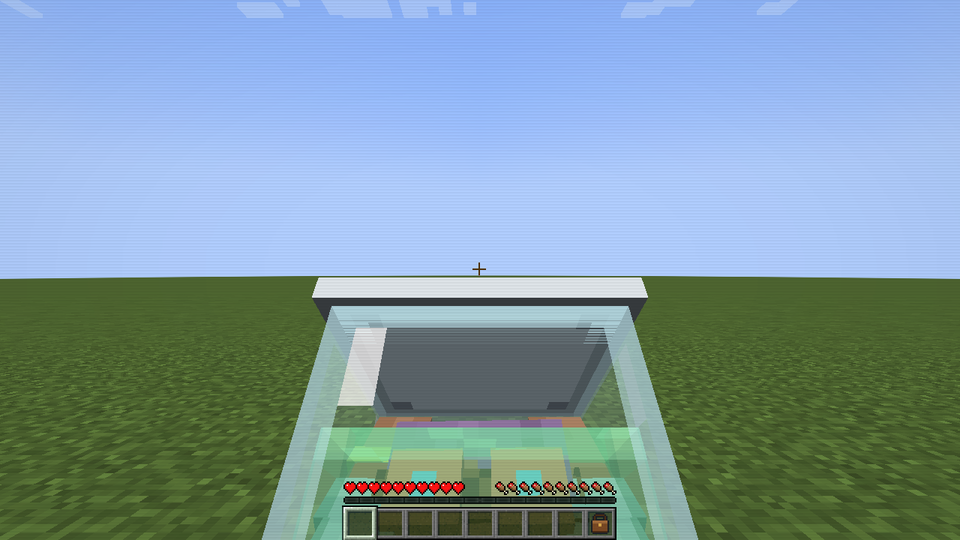
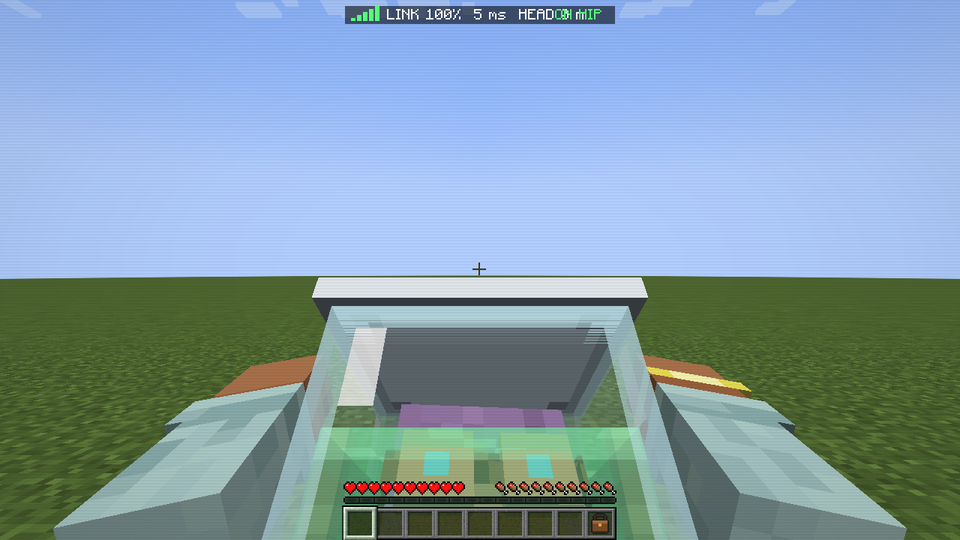
Carrying works with Fresh Animations and Punchy; first-person hands on the jar's sides
First person: while the jar is in your arms the whole hand pass is replaced, so mods that
draw their own first-person arms (Punchy) no longer add a third hand. Each hand now grips the
outside of the tipped jar with the arm running back to your shoulder, so both stay in view at
any field of view.

Third person: with Entity Model Features installed (Fresh Animations' player extension), the
carrying pose is put back on the arms after its animations run, so the rest of your body keeps
animating while your arms stay on the jar. First-person hands are left out of those animations.

diff --git a/src/main/java/com/coolfreeze23/headinajar/client/HeadCarry.java b/src/main/java/com/coolfreeze23/headinajar/client/HeadCarry.java
@@ -7,14 +7,19 @@ import com.mojang.blaze3d.vertex.PoseStack;
 import com.mojang.math.Axis;
 import net.minecraft.client.Minecraft;
 import net.minecraft.client.model.HumanoidModel;
+import net.minecraft.client.model.PlayerModel;
 import net.minecraft.client.player.AbstractClientPlayer;
+import net.minecraft.client.player.LocalPlayer;
 import net.minecraft.client.renderer.MultiBufferSource;
 import net.minecraft.client.renderer.entity.player.PlayerRenderer;
 import net.minecraft.client.renderer.texture.OverlayTexture;
 import net.minecraft.util.Mth;
 import net.minecraft.world.entity.LivingEntity;
 import net.minecraft.world.entity.player.Player;
+import org.joml.Quaternionf;
+import org.joml.Vector3f;
 
+import java.util.HashMap;
 import java.util.Map;
 import java.util.UUID;
 import java.util.WeakHashMap;
@@ -62,9 +67,39 @@ public final class HeadCarry {
     /** ...and when strapped to your back. */
     private static final float BACK_Y = 16, BACK_Z = 9.6f;
 
+    /** The model and walk cycle each carrying player was last posed with, so the pose can be put back after other mods animate. */
+    private static final Map<UUID, Posed> POSED = new HashMap<>();
+
+    private record Posed(HumanoidModel<?> model, float limbSwing, float limbSwingAmount, float age) {
+    }
+
     /** Called at the end of HumanoidModel.setupAnim: both arms come down and forward to grip the jar's sides. */
     public static void poseArms(HumanoidModel<?> model, LivingEntity entity, float limbSwing, float limbSwingAmount, float age) {
-        if (!(entity instanceof Player player) || !carrying(player)) return;
+        if (!(entity instanceof Player player) || drawingHands) return;
+        if (!carrying(player)) {
+            POSED.remove(player.getUUID());
+            return;
+        }
+        POSED.put(player.getUUID(), new Posed(model, limbSwing, limbSwingAmount, age));
+        applyArms(model, player, limbSwing, limbSwingAmount, age);
+    }
+
+    /**
+     * Puts the carrying pose back after an animation mod (Entity Model Features, under Fresh Animations' player pack) has
+     * moved the arms, sleeves included.
+     */
+    public static void reposeArms(Player player) {
+        Posed posed = POSED.get(player.getUUID());
+        if (posed == null || !carrying(player)) return;
+        HumanoidModel<?> model = posed.model();
+        applyArms(model, player, posed.limbSwing(), posed.limbSwingAmount(), posed.age());
+        if (model instanceof PlayerModel<?> playerModel) {
+            playerModel.rightSleeve.copyFrom(model.rightArm);
+            playerModel.leftSleeve.copyFrom(model.leftArm);
+        }
+    }
+
+    private static void applyArms(HumanoidModel<?> model, Player player, float limbSwing, float limbSwingAmount, float age) {
         float lift = lift(player, age);
         if (lift <= 0) return;
         // a gentle sway with each step, and a little breathing
@@ -102,8 +137,36 @@ public final class HeadCarry {
     }
 
     /**
-     * First person, life size: the jar sits low in front of you, its lid just under your line of sight, with your hands on
-     * its sides. It rises into view as you lift it. Returns whether it drew (so the vanilla hands are skipped).
+     * Replaces the whole first-person hand pass while the jar is in your arms (so no other mod adds hands of its own), with
+     * the same view sway the vanilla pass applies. Returns false when not carrying, to let the normal pass run.
+     */
+    public static boolean drawFirstPersonPass(PoseStack pose, MultiBufferSource.BufferSource buffers, LocalPlayer player, int light, float partialTick) {
+        if (player == null || !inArms(player)) return false;
+        pose.pushPose();
+        float xBob = Mth.lerp(partialTick, player.xBobO, player.xBob);
+        float yBob = Mth.lerp(partialTick, player.yBobO, player.yBob);
+        pose.mulPose(Axis.XP.rotationDegrees((player.getViewXRot(partialTick) - xBob) * 0.1f));
+        pose.mulPose(Axis.YP.rotationDegrees((player.getViewYRot(partialTick) - yBob) * 0.1f));
+        drawFirstPerson(pose, buffers, light, partialTick, 0);
+        pose.popPose();
+        buffers.endBatch();
+        return true;
+    }
+
+    /** Set while the first-person hands render, whose setupAnim call must not pick up the third-person carry pose. */
+    private static boolean drawingHands;
+
+    /** Jar tipped toward you in first person (degrees about X, round its middle). */
+    private static final float FP_TILT = -40;
+    /** Where each hand grips the jar, in the jar's own frame (blocks from the middle of its base): the upper sides. */
+    private static final float GRIP_X = 0.65f, GRIP_Y = 0.7f, GRIP_Z = 0.02f;
+    /** Your shoulders, from the camera (blocks): the arms run from here to the grip. */
+    private static final float SHOULDER_X = 0.42f, SHOULDER_Y = -0.45f, SHOULDER_Z = 0.3f;
+
+    /**
+     * First person, life size: the jar sits low in front of you, tipped toward you so you see your head inside, with a hand
+     * on each side. The arms run from your shoulders to the jar's sides, so they stay in view at any field of view. It rises
+     * into view as you lift it. Returns whether it drew (so the vanilla hands are skipped).
      */
     public static boolean drawFirstPerson(PoseStack pose, MultiBufferSource buffers, int light, float partialTick, float equip) {
         Minecraft mc = Minecraft.getInstance();
@@ -113,32 +176,40 @@ public final class HeadCarry {
         float lift = lift(player, age);
         float walk = Mth.lerp(partialTick, player.walkDistO, player.walkDist);
         float amount = Mth.clamp(Mth.lerp(partialTick, player.oBob, player.bob) * 6, 0, 1);
-        // camera (the Collar Cam) to the jar's base, in blocks: the same spot as in third person
+        // camera (the Collar Cam) to the jar's base, in blocks: held a little further out and lower than in third person
         float eye = player.getEyeHeight();
-        // held a little further out and lower than in third person, so you see down into the jar rather than its lid
         float baseY = 1.5f - FRONT_Y / 16f - eye - 0.04f;
         float baseZ = FRONT_Z / 16f - 0.55f;
         pose.pushPose();
         pose.translate(Mth.sin(walk * Mth.PI) * 0.02f * amount, -Math.abs(Mth.cos(walk * Mth.PI)) * 0.025f * amount - 0.9f * (1 - lift) - 0.2f * equip, 0);
-        // the hands, on the jar's sides
+        // the hands: each grip point on the tipped jar, reached from the shoulder on that side
         PlayerRenderer renderer = (PlayerRenderer) mc.getEntityRenderDispatcher().getRenderer(player);
-        for (int side = 0; side < 2; side++) {
-            float f = side == 0 ? 1 : -1;
-            pose.pushPose();
-            pose.translate(f * 0.5f, baseY + 0.45f, baseZ + 0.05f);
-            pose.mulPose(Axis.YP.rotationDegrees(f * -12));
-            pose.mulPose(Axis.XP.rotationDegrees(-78));
-            pose.mulPose(Axis.ZP.rotationDegrees(f * -6));
-            pose.translate(-f * 0.31f, -0.7f, 0);
-            if (side == 0) renderer.renderRightHand(pose, buffers, light, player);
-            else renderer.renderLeftHand(pose, buffers, light, player);
-            pose.popPose();
+        float cos = Mth.cos(FP_TILT * Mth.DEG_TO_RAD), sin = Mth.sin(FP_TILT * Mth.DEG_TO_RAD);
+        drawingHands = true;
+        try {
+            for (int side = 0; side < 2; side++) {
+                float f = side == 0 ? 1 : -1;
+                float ry = GRIP_Y - 0.5f, rz = GRIP_Z;
+                Vector3f grip = new Vector3f(f * GRIP_X, baseY + 0.5f + ry * cos - rz * sin, baseZ + ry * sin + rz * cos);
+                Vector3f along = new Vector3f(grip).sub(f * SHOULDER_X, SHOULDER_Y, SHOULDER_Z).normalize();
+                pose.pushPose();
+                pose.translate(grip.x, grip.y, grip.z);
+                // the arm model runs down its +Y from the shoulder: point that along shoulder-to-grip, palm turned in to the glass
+                pose.mulPose(new Quaternionf().rotationTo(0, 1, 0, along.x, along.y, along.z));
+                pose.mulPose(Axis.YP.rotationDegrees(f * 90));
+                // the hand (10 px down the arm, 1 px out from its middle) lands on the grip
+                pose.translate(f * 6 / 16f, -10 / 16f, 0);
+                if (side == 0) renderer.renderRightHand(pose, buffers, light, player);
+                else renderer.renderLeftHand(pose, buffers, light, player);
+                pose.popPose();
+            }
+        } finally {
+            drawingHands = false;
         }
         // the jar, life size, your head turned round to look up at you
         pose.translate(0, baseY, baseZ);
-        // tipped toward you round its middle, as if held up to look at: the glass faces you, not the lid
         pose.translate(0, 0.5f, 0);
-        pose.mulPose(Axis.XP.rotationDegrees(-40));
+        pose.mulPose(Axis.XP.rotationDegrees(FP_TILT));
         pose.translate(0, -0.5f, 0);
         var state = player.getData(ModRegistry.JAR_STATE);
         JarRenderer.draw(pose, buffers, light, OverlayTexture.NO_OVERLAY, player.getSkin().texture(), 180 + Mth.sin(age * 0.05f) * 6, -18, age, true,

diff --git a/src/main/java/com/coolfreeze23/headinajar/compat/EmfCompat.java b/src/main/java/com/coolfreeze23/headinajar/compat/EmfCompat.java
@@ -1,0 +1,40 @@
+package com.coolfreeze23.headinajar.compat;
+
+import com.coolfreeze23.headinajar.HeadInAJar;
+import com.coolfreeze23.headinajar.client.HeadCarry;
+import net.minecraft.world.entity.player.Player;
+import traben.entity_model_features.EMFAnimationApi;
+
+/**
+ * Entity Model Features (and resource packs built on it, like Fresh Animations' player extension) animates the player
+ * model after the vanilla pose is set, which would swing the arms away from the jar. This puts the carrying pose back
+ * once those animations have run, so everything else they animate stays theirs. The first-person hands holding the jar
+ * are left out of those animations altogether.
+ */
+final class EmfCompat {
+    private EmfCompat() {
+    }
+
+    static void register() {
+        try {
+            EMFAnimationApi.registerAnimationHook(new EMFAnimationApi.EMFAnimationHook() {
+                @Override
+                public boolean onAnimationStart(AnimationContext context, boolean isCancelledByHook) {
+                    // the first-person hands holding the jar are placed by this mod: leave them unanimated
+                    var state = context.activeState();
+                    return !(state != null && state.isFirstPersonHand() && state.emfEntity() instanceof Player player && HeadCarry.inArms(player));
+                }
+
+                @Override
+                public void onAnimationEnd(AnimationContext context, boolean wasCancelledByHook) {
+                    var state = context.activeState();
+                    if (state != null && !state.isFirstPersonHand() && state.emfEntity() instanceof Player player) {
+                        HeadCarry.reposeArms(player);
+                    }
+                }
+            });
+        } catch (Exception | LinkageError e) {
+            HeadInAJar.LOGGER.warn("Could not hook Entity Model Features animations: {}", e.toString());
+        }
+    }
+}

diff --git a/src/main/java/com/coolfreeze23/headinajar/mixin/GameRendererCarryMixin.java b/src/main/java/com/coolfreeze23/headinajar/mixin/GameRendererCarryMixin.java
@@ -1,0 +1,28 @@
+package com.coolfreeze23.headinajar.mixin;
+
+import com.coolfreeze23.headinajar.client.HeadCarry;
+import com.llamalad7.mixinextras.injector.wrapoperation.Operation;
+import com.llamalad7.mixinextras.injector.wrapoperation.WrapOperation;
+import com.mojang.blaze3d.vertex.PoseStack;
+import net.minecraft.client.player.LocalPlayer;
+import net.minecraft.client.renderer.GameRenderer;
+import net.minecraft.client.renderer.ItemInHandRenderer;
+import net.minecraft.client.renderer.MultiBufferSource;
+import org.spongepowered.asm.mixin.Mixin;
+import org.spongepowered.asm.mixin.injection.At;
+
+/**
+ * Carrying your head in both arms replaces the whole first-person hand pass, not just the vanilla hands, so mods that draw
+ * their own first-person arms (Punchy, for one) don't add a third hand over the jar.
+ */
+@Mixin(GameRenderer.class)
+public abstract class GameRendererCarryMixin {
+    @WrapOperation(method = "renderItemInHand", at = @At(value = "INVOKE",
+            target = "Lnet/minecraft/client/renderer/ItemInHandRenderer;renderHandsWithItems(FLcom/mojang/blaze3d/vertex/PoseStack;Lnet/minecraft/client/renderer/MultiBufferSource$BufferSource;Lnet/minecraft/client/player/LocalPlayer;I)V"))
+    private void headinajar$carryHands(ItemInHandRenderer hands, float partialTick, PoseStack pose, MultiBufferSource.BufferSource buffers,
+                                       LocalPlayer player, int light, Operation<Void> original) {
+        if (!HeadCarry.drawFirstPersonPass(pose, buffers, player, light, partialTick)) {
+            original.call(hands, partialTick, pose, buffers, player, light);
+        }
+    }
+}

diff --git a/src/main/java/com/coolfreeze23/headinajar/client/ClientSetup.java b/src/main/java/com/coolfreeze23/headinajar/client/ClientSetup.java
@@ -42,6 +42,7 @@ public class ClientSetup {
         modBus.addListener(ClientSetup::playerLayers);
         modBus.addListener(ClientSetup::fluids);
         modBus.addListener((net.neoforged.fml.event.lifecycle.FMLClientSetupEvent e) -> e.enqueueWork(() -> {
+            com.coolfreeze23.headinajar.compat.Compat.clientSetup();
             for (var fluid : com.coolfreeze23.headinajar.registry.ModFluids.ALL) {
                 net.minecraft.client.renderer.ItemBlockRenderTypes.setRenderLayer(fluid.source.get(), net.minecraft.client.renderer.RenderType.translucent());
                 net.minecraft.client.renderer.ItemBlockRenderTypes.setRenderLayer(fluid.flowing.get(), net.minecraft.client.renderer.RenderType.translucent());

diff --git a/src/main/java/com/coolfreeze23/headinajar/compat/Compat.java b/src/main/java/com/coolfreeze23/headinajar/compat/Compat.java
@@ -17,4 +17,9 @@ public final class Compat {
     public static boolean wearsCurio(Player player, Item item) {
         return curios() && CuriosCompat.wears(player, item);
     }
+
+    /** Client setup: hooks into Entity Model Features' player animations when it is installed. */
+    public static void clientSetup() {
+        if (ModList.get() != null && ModList.get().isLoaded("entity_model_features")) EmfCompat.register();
+    }
 }

diff --git a/README.md b/README.md
@@ -293,6 +293,9 @@ All optional. Nothing changes if a mod is missing.
 - **JEI:** an information page for every machine.
 - **Jade:** mecha power, heat and mass; host freshness and sync; whose body it is; the genes a creature carries.
 - **Patchouli:** the Employee Handbook.
+- **Fresh Animations (player extension) and other Entity Model Features packs:** keep animating you while you carry your
+  head; only your arms stay on the jar.
+- **Punchy and other first-person arm mods:** while the jar is in your arms, you see just your own two hands on it.
 
 ![Jade on a mecha](docs/images/jade.png)
 
